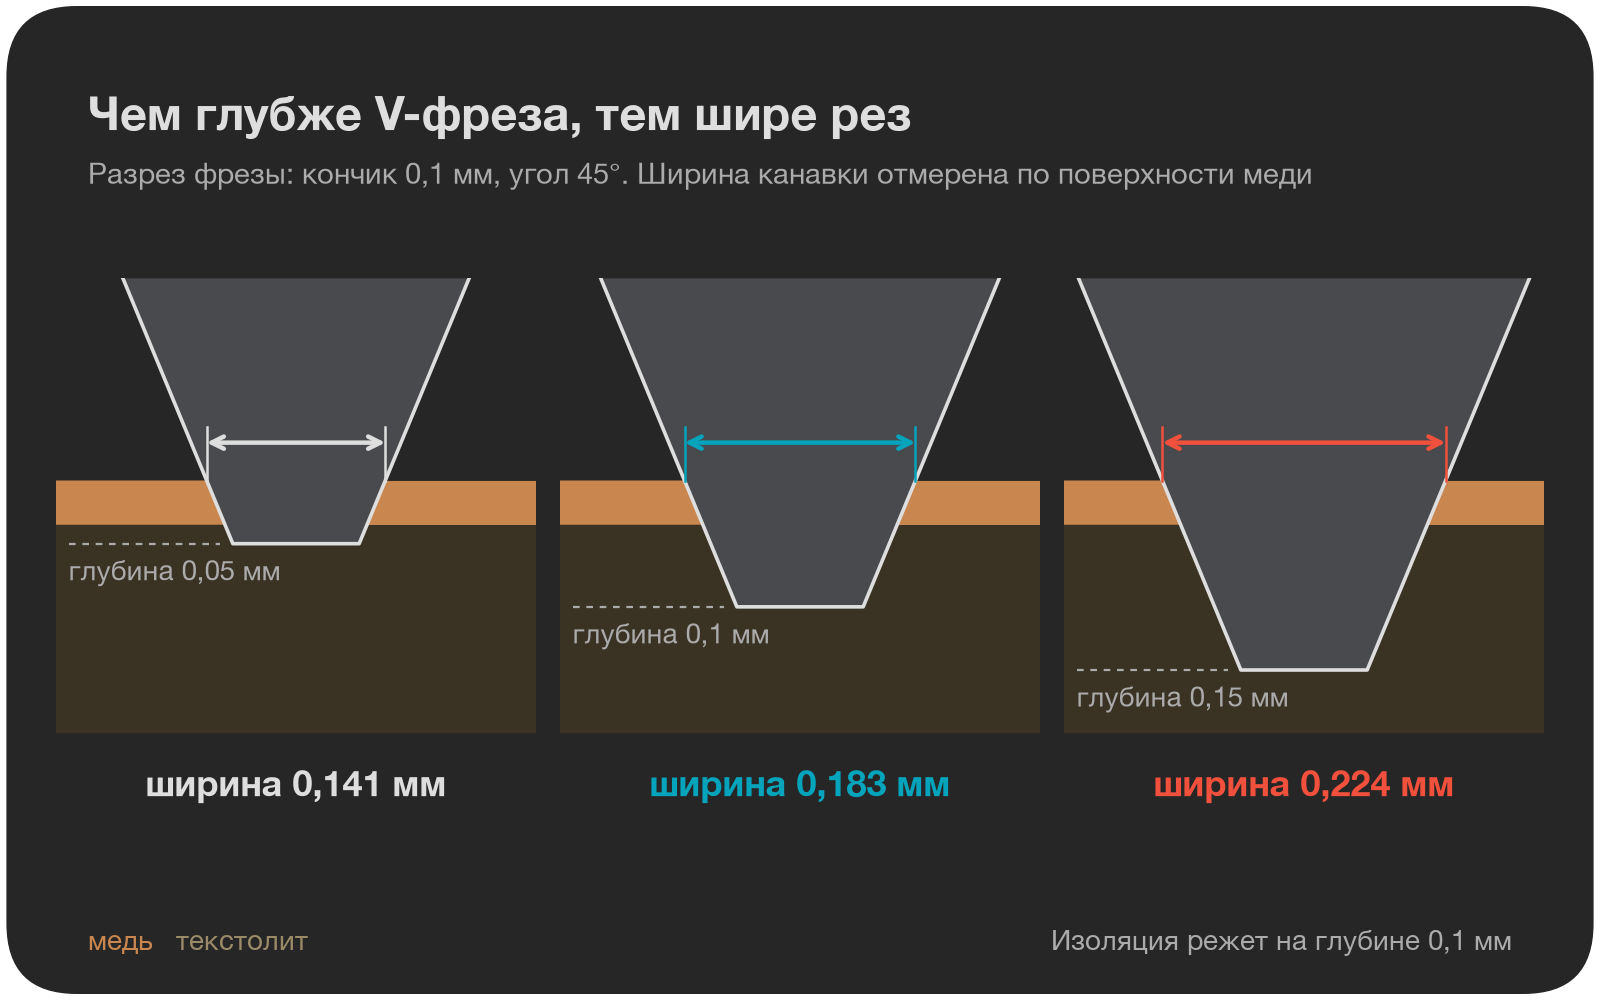
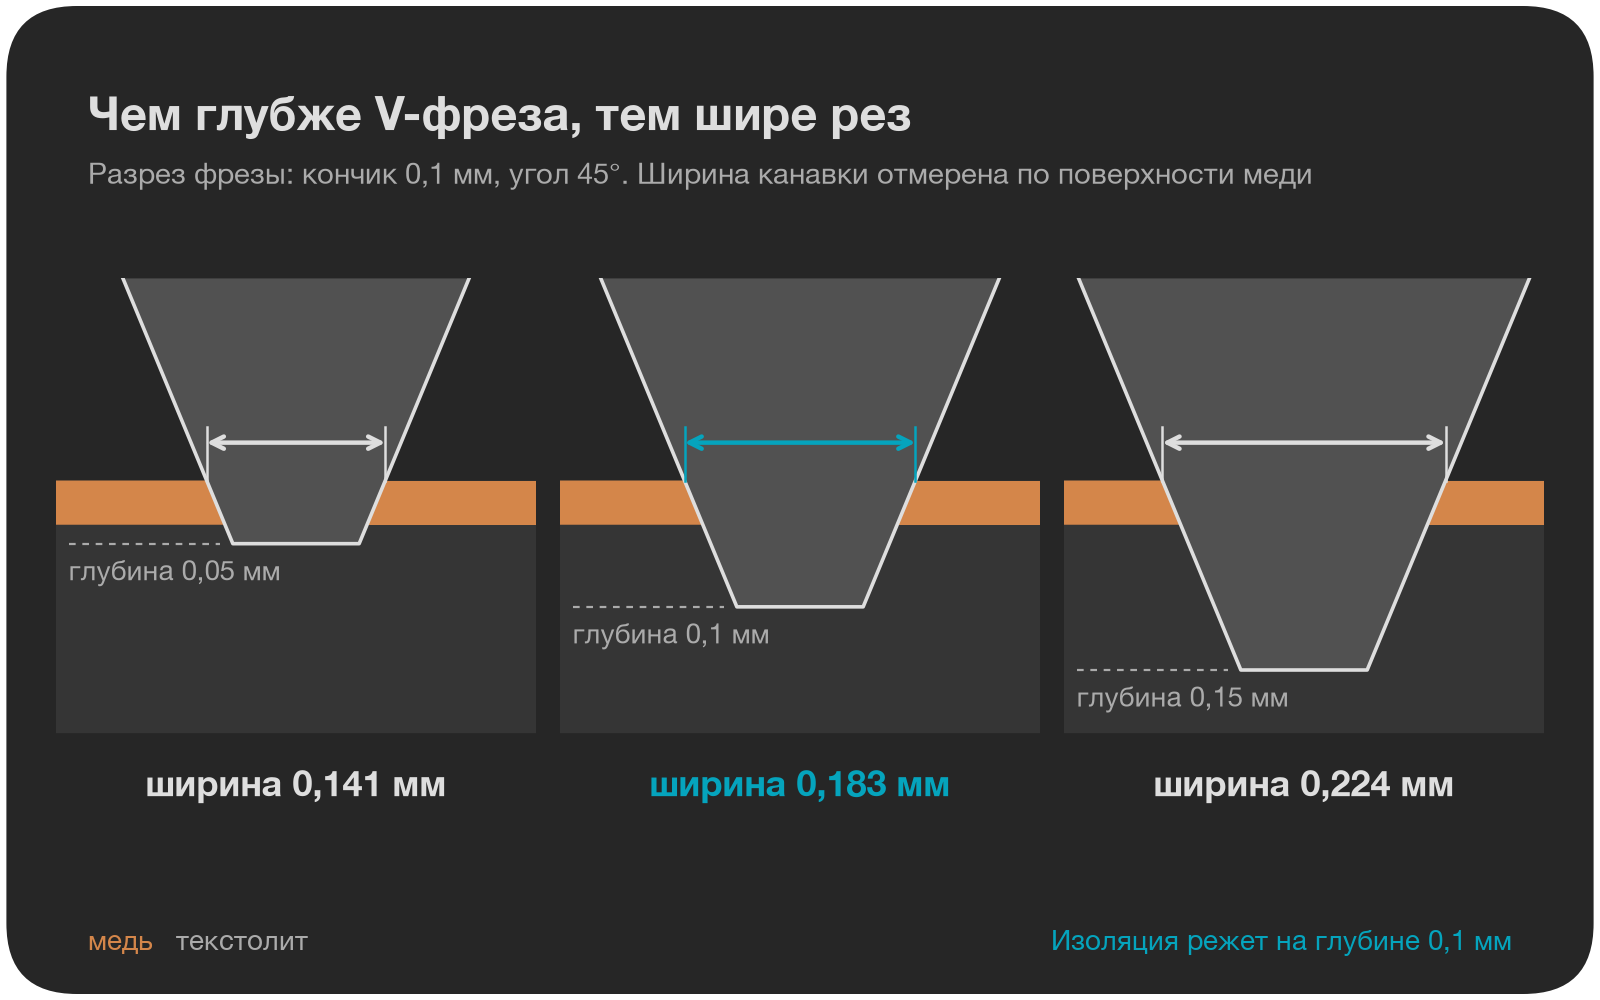
Статья: разрез фрезы в трёх цветах, серый текстолит

diff --git a/docs/article/figures.py b/docs/article/figures.py
@@ -208,22 +208,24 @@ def fig_width():
                "Ширина канавки отмерена по поверхности меди")
     t = math.tan(math.radians(ANGLE / 2))
     cu, half, top, low = 0.035, 0.19, 0.16, -0.2
-    for i, (d, key) in enumerate(((0.05, "naive"), (0.1, "mine"), (0.15, "warn"))):
+    # Two colours for the material, white for the marks; only the working depth in accent.
+    FR4, CU = "#353535", "#d4864a"
+    for i, d in enumerate((0.05, 0.1, 0.15)):
         ax = fig.add_axes([0.035 + i * 0.315, 0.1, 0.3, 0.7])
         ax.set_facecolor("none")
         w = cut_width(d)
-        color = C[key] if key != "naive" else C["ink"]
+        color = C["mine"] if d == 0.1 else C["ink"]
         # Textolite with the groove cut out, then the copper layer on both sides of it.
         ax.fill([-half, -w / 2, -TIP / 2, TIP / 2, w / 2, half, half, -half],
-                [0, 0, -d, -d, 0, 0, low, low], color="#3a3324", lw=0, zorder=1)
+                [0, 0, -d, -d, 0, 0, low, low], color=FR4, lw=0, zorder=1)
         ax.fill([-half, -w / 2, -w / 2 + cu * t, -half], [0, 0, -cu, -cu],
-                color=C["copper"], lw=0, zorder=2)
+                color=CU, lw=0, zorder=2)
         ax.fill([w / 2, half, half, w / 2 - cu * t], [0, 0, -cu, -cu],
-                color=C["copper"], lw=0, zorder=2)
+                color=CU, lw=0, zorder=2)
         # The bit: its flanks lie on the groove walls.
         bit_x = [-(TIP / 2 + (top + d) * t), -TIP / 2, TIP / 2, TIP / 2 + (top + d) * t]
         bit_y = [top, -d, -d, top]
-        ax.fill(bit_x, bit_y, color="#8a8f98", alpha=0.35, lw=0, zorder=3)
+        ax.fill(bit_x, bit_y, color=C["ink"], alpha=0.24, lw=0, zorder=3)
         ax.plot(bit_x, bit_y, color=C["ink"], lw=1.3, zorder=4)
         # Width at the surface, depth at the side.
         y = 0.03
@@ -241,10 +243,10 @@ def fig_width():
         ax.set_ylim(low - 0.07, top)
         ax.set_aspect("equal")
         ax.axis("off")
-    fig.text(0.055, 0.05, "медь", fontsize=10, color=C["copper"])
-    fig.text(0.11, 0.05, "текстолит", fontsize=10, color="#9a8a68")
+    fig.text(0.055, 0.05, "медь", fontsize=10, color=CU)
+    fig.text(0.11, 0.05, "текстолит", fontsize=10, color=C["muted"])
     fig.text(0.945, 0.05, "Изоляция режет на глубине 0,1 мм", ha="right",
-             fontsize=10, color=C["muted"])
+             fontsize=10, color=C["mine"])
     save(fig, "width.png")
 
 
